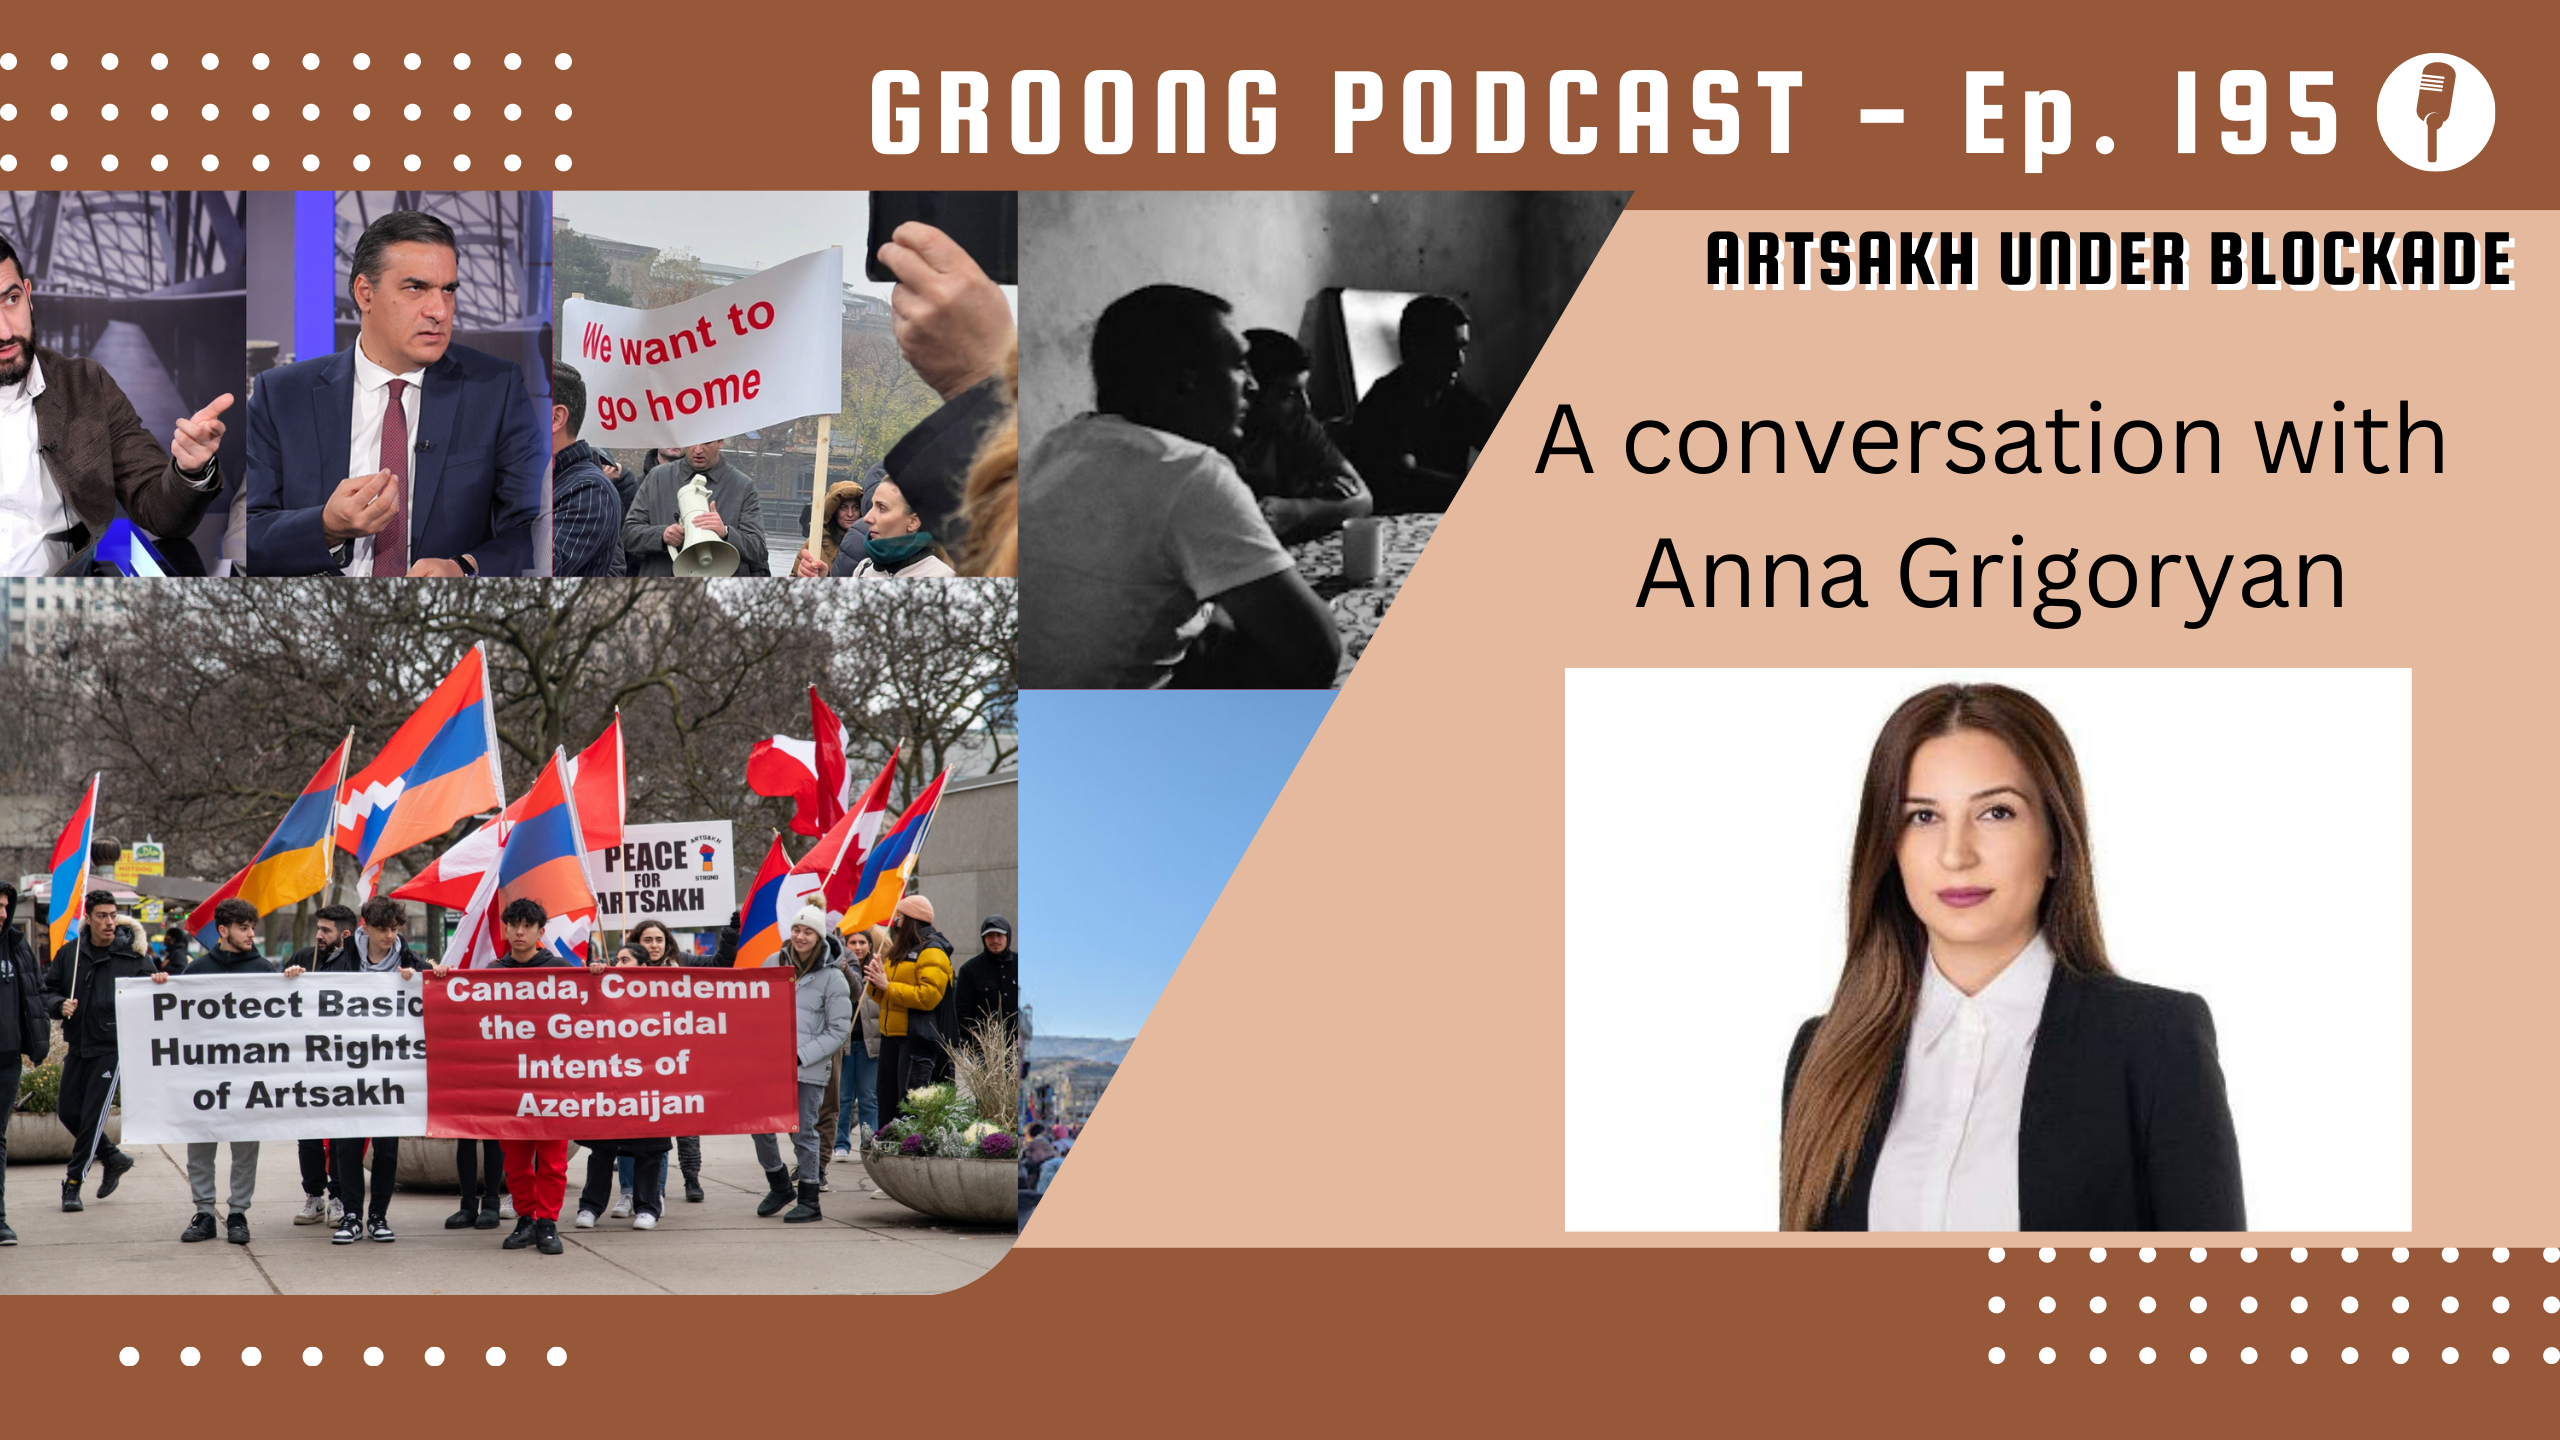
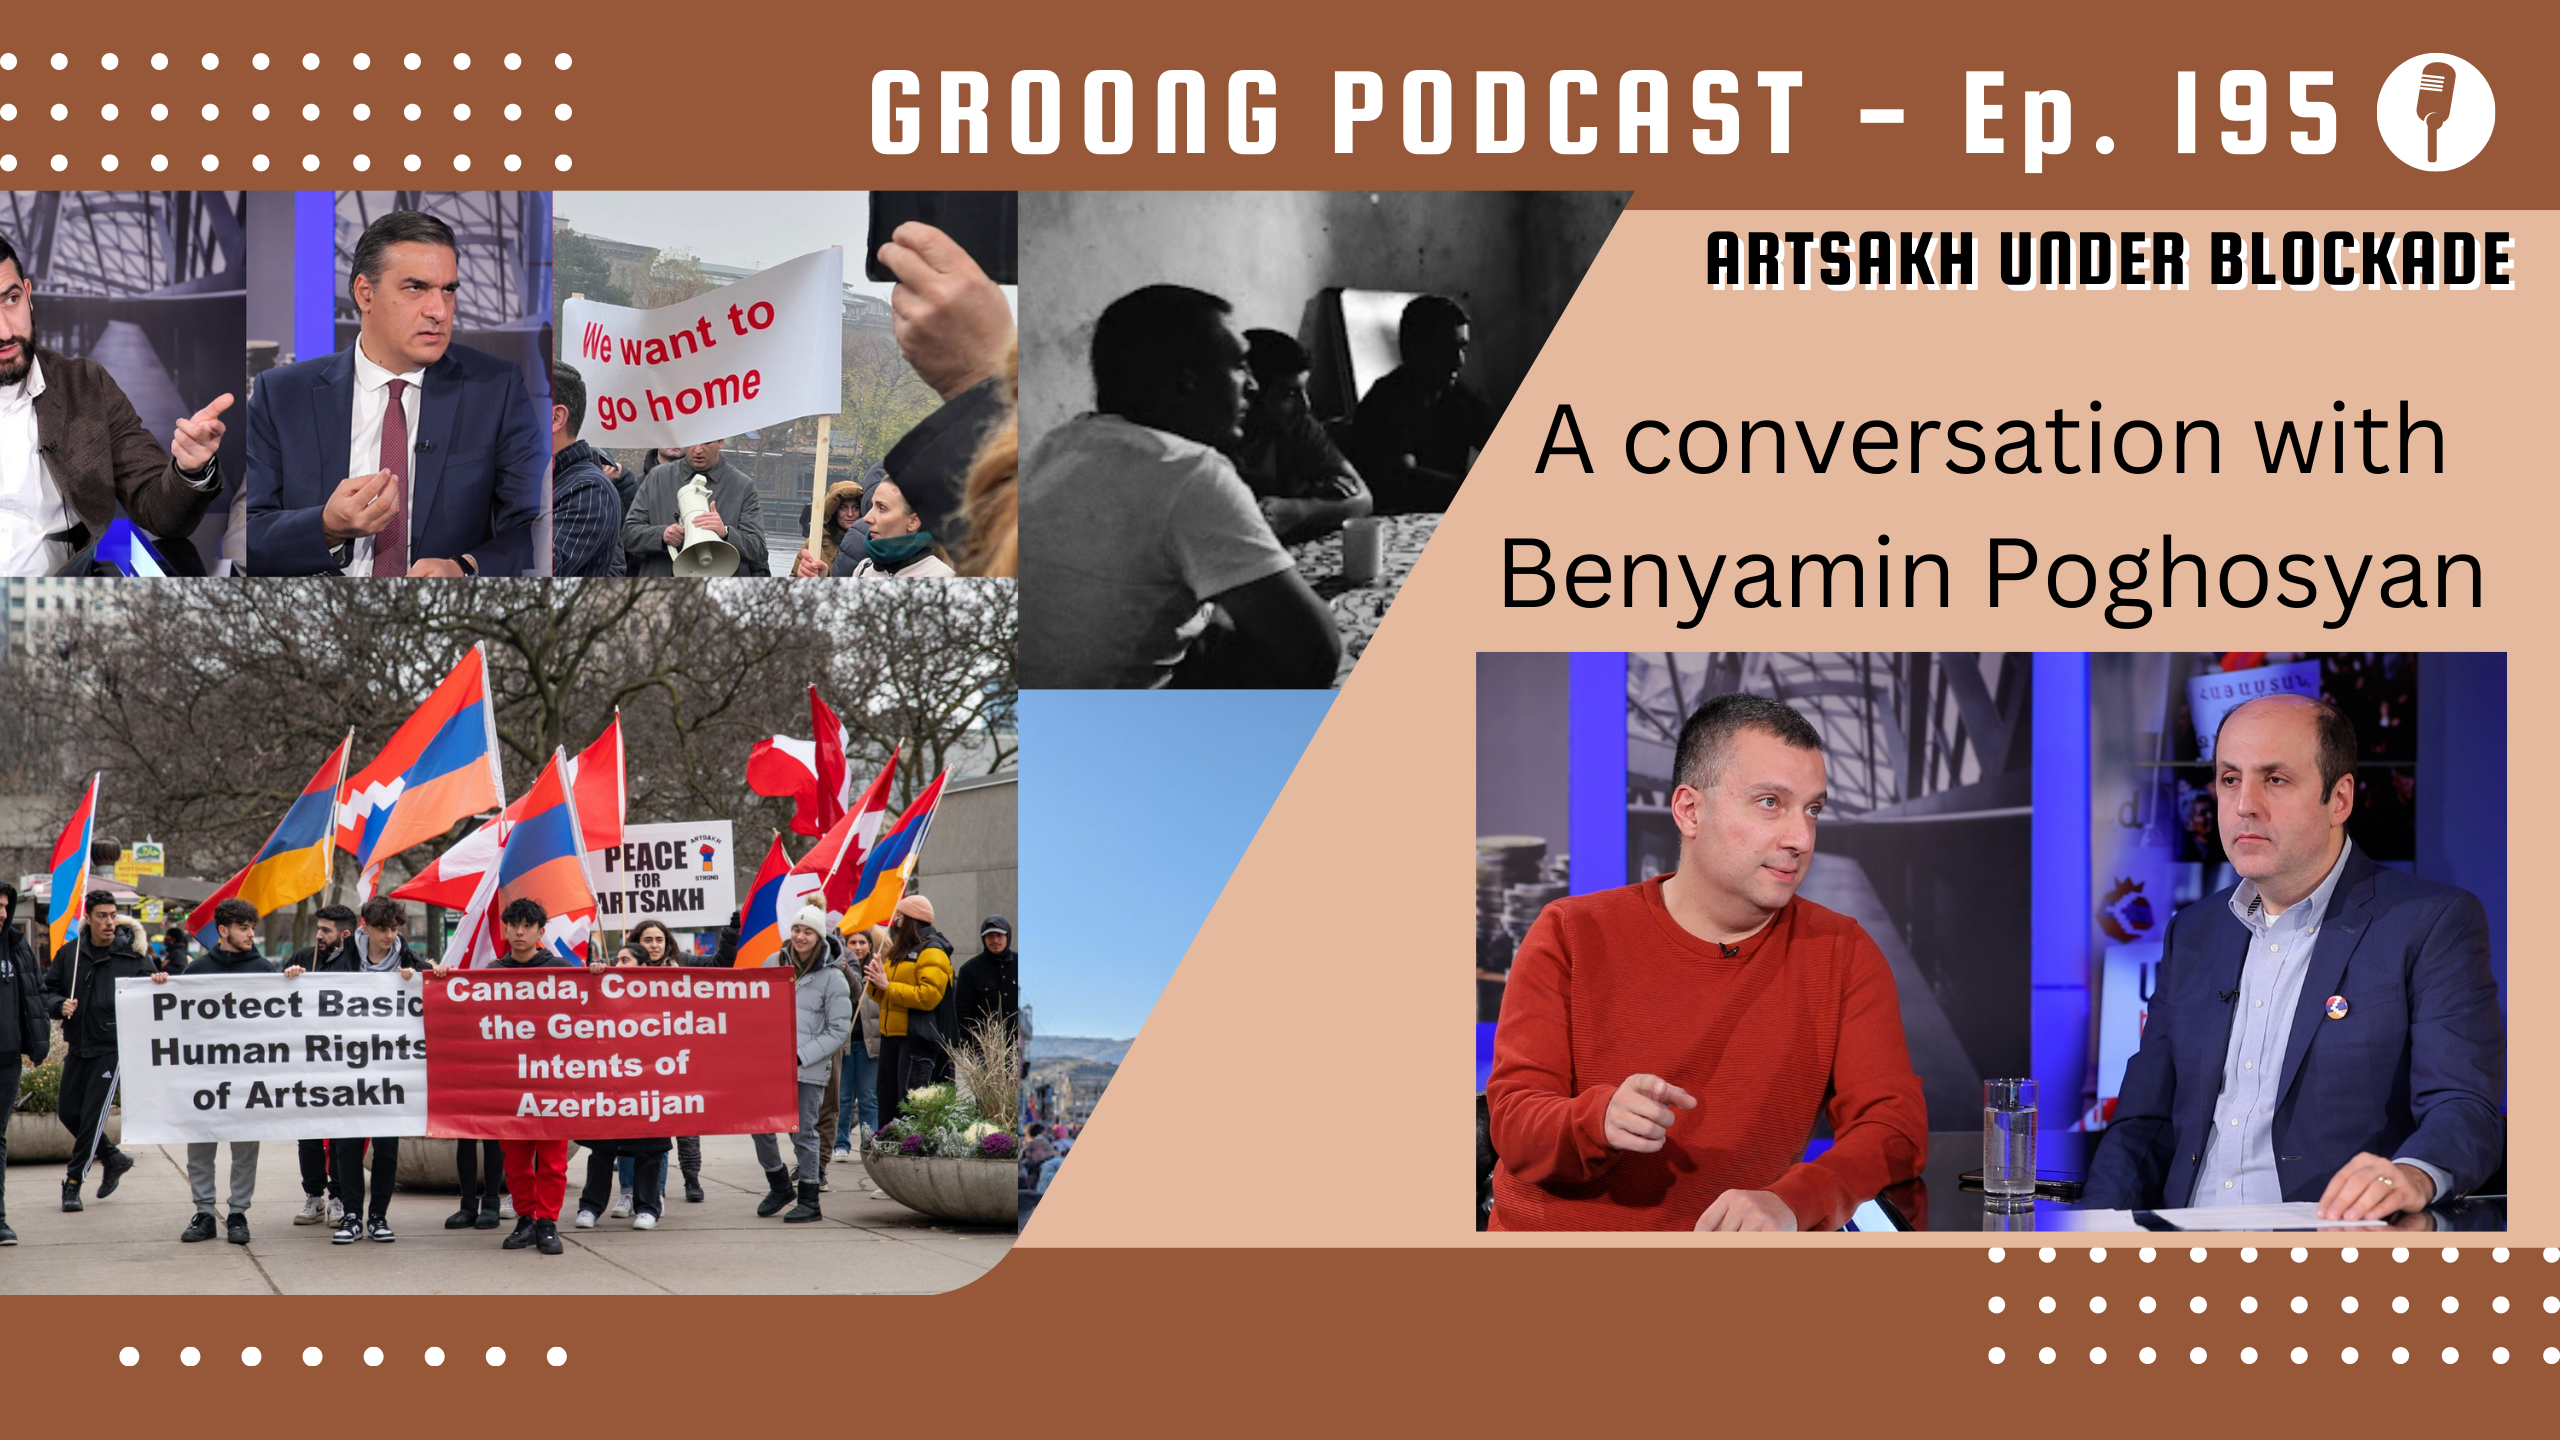
Updating episode 195 images.

Changed region(s): [[0.5625, 0.375, 1.0, 0.875]]

diff --git a/content/episode/195-benyamin-poghosyan-artsakh-under-blockade-day-16.md b/content/episode/195-benyamin-poghosyan-artsakh-under-blockade-day-16.md
@@ -1,5 +1,5 @@
 +++
-Date = 2022-12-27T18:00:00+04:00
+Date = 2022-12-27T23:00:00+04:00
 
 podcast_file = "###.mp3" # the name of the podcast file, after the media prefix.
 podcast_duration = ""
@@ -7,12 +7,11 @@ podcast_bytes = ""
 
 episode_image = "img/episode/thumbnail-195.png"
 episode_banner = "img/episode/banner-195.png"
-images = ["img/episode/default-social.jpg"]
+images = ["img/episode/banner-195.jpg"]
 upcoming = true
 
 hosts = ["hovik"]
-guests = ["agrigoryan"]
-#sponsors = []
+guests = ["bpoghosyan"]
 episode = "195"
 aliases = ["/195"]
 #youtube = ""
